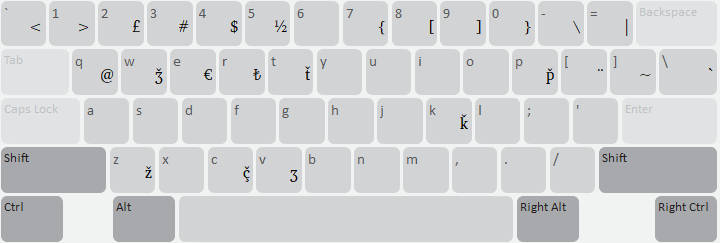
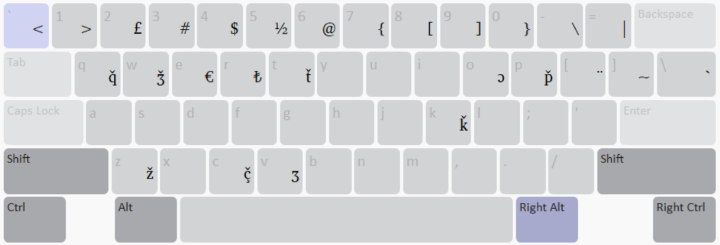
[colchis_latin] add new consonants

diff --git a/release/c/colchis_latin/LICENSE.md b/release/c/colchis_latin/LICENSE.md
@@ -1,6 +1,6 @@
 The MIT License (MIT)
 
-Copyright (c) 2021-2024 SIL International
+Copyright (c) 2021-2025 SIL International
 
 Permission is hereby granted, free of charge, to any person obtaining a copy
 of this software and associated documentation files (the "Software"), to deal

diff --git a/release/c/colchis_latin/HISTORY.md b/release/c/colchis_latin/HISTORY.md
@@ -1,5 +1,8 @@
 Colchis Latin
 ===============================
+1.6 (8 Jan 2025)
+------------------
+* Added ɔ and q̌ on all layouts 
 
 1.5 (9 Sept 2024)
 ------------------
